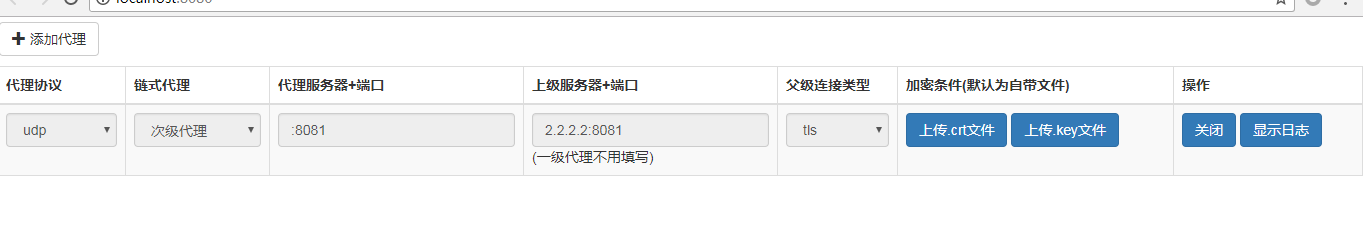
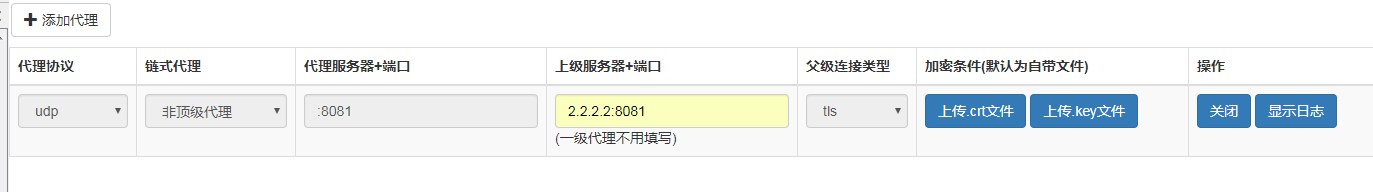
yincong

diff --git a/view/index.html b/view/index.html
@@ -28,7 +28,7 @@
 	                        <thead>\
 	                            <tr>\
 	                                <th class="ng-binding">代理协议</th>\
-									<th class="ng-binding local">本次连接类型</th>\
+									<th class="ng-binding local">本地连接类型</th>\
 	                                <th class="ng-binding chain">链式代理</th>\
 	                                <th class="ng-binding proxy">代理服务器+端口</th>\
 	                                <th class="ng-binding agent">上级服务器+端口</th>\
@@ -59,7 +59,7 @@
                                     <td class="chain">\
                                         <select name="proxy" class="form-control ng-pristine ng-valid ng-not-empty ng-touched">\
                                             <option label="顶级代理" value="1" selected="selected">顶级代理</option>\
-                                            <option label="次级代理" value="2">次级代理</option>\
+                                            <option label="非顶级代理" value="2">非顶级代理</option>\
                                         </select>\
                                     </td>\
                                     <td  class="ng-scope ip">\

diff --git a/server/server.go b/server/server.go
@@ -101,9 +101,9 @@ func runCommand(command string, v http.ResponseWriter, data url.Values) {
 	pid := cmd.Process.Pid
 	go saveLog(reader, pid)
 	go waitProcess(cmd, cmdChan, pid)
-	second := time.After(2 * time.Second)
+	second := time.After(3 * time.Second)
 
-	//判断2秒内是否有channel返回，有则是失败，阻塞1秒以上则为成功
+	//判断2秒内是否有channel返回，有则是失败，阻塞3秒以上则为成功
 	select {
 	case <-cmdChan:
 		Code = 500
@@ -236,8 +236,12 @@ func StartServer() {
 	http.HandleFunc("/getData", getData)
 	http.HandleFunc("/showLog", showLog)
 	http.HandleFunc("/uploade", uploade)
-	err := http.ListenAndServe(":8080", nil)
+	port, err := util.GetServerPort()
 	if err != nil {
-		log.Fatal("listen port failure: ", err)
+		log.Fatal("get port failure: ", err)
+	}
+	err = http.ListenAndServe(port, nil)
+	if err != nil {
+		log.Fatal("listen port failure", err)
 	}
 }

diff --git a/util/config.go b/util/config.go
@@ -15,3 +15,15 @@ func GetServerPath() (string, error) {
 	}
 	return path, nil
 }
+
+func GetServerPort() (string, error) {
+	config, err := goconfig.LoadConfigFile("./config/config.ini")
+	if err != nil {
+		return "", err
+	}
+	path, err := config.GetValue("proxy_server", "port")
+	if err != nil {
+		return "", err
+	}
+	return path, nil
+}
